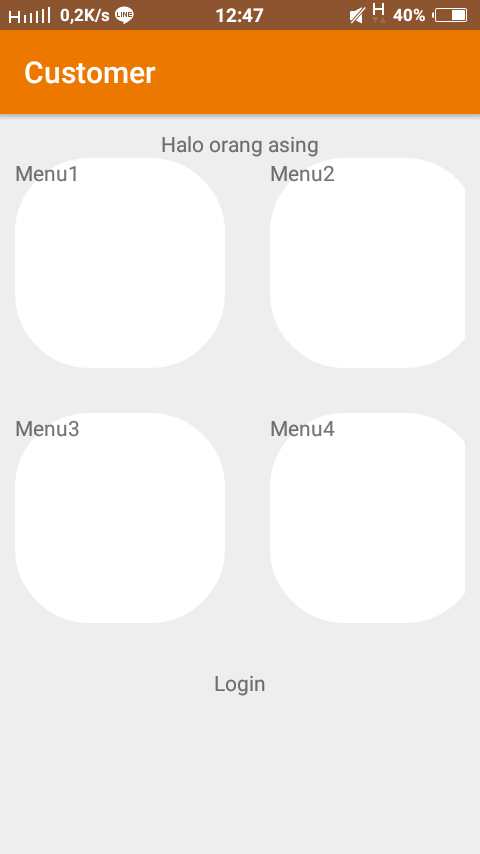
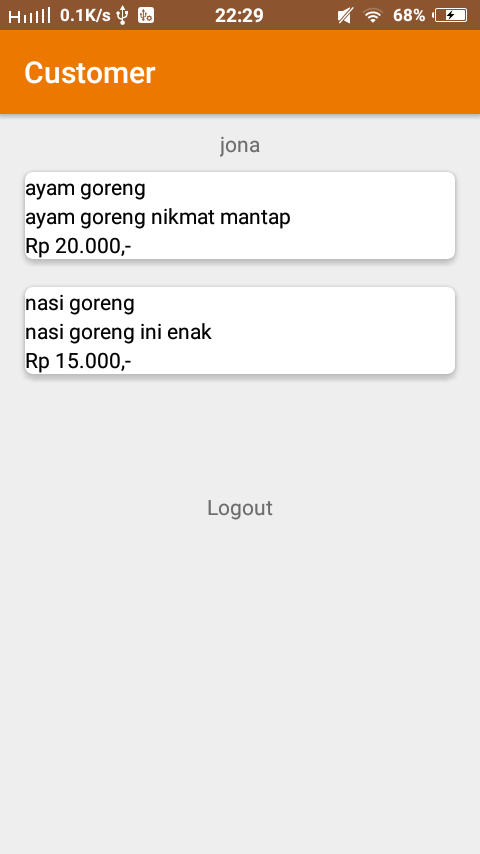
perbaiki recyclerview

diff --git a/app/src/main/java/com/jhonarendra/restoran/customer/RVMhs.java b/app/src/main/java/com/jhonarendra/restoran/customer/RVMhs.java
@@ -38,9 +38,9 @@ public class RVMhs extends RecyclerView.Adapter<RVMhs.ViewHolder> {
     @Override
     public void onBindViewHolder(ViewHolder holder, int position) {
         Result result = results.get(position);
-        holder.textViewNIMMhs.setText(result.getNIM());
-        holder.textViewNamaMhs.setText(result.getNamaMhs());
-        holder.textViewIDMhs.setText(result.getIDMhs());
+        holder.textViewNama.setText(result.getNama_hidangan());
+        holder.textViewDeskripsi.setText(result.getDeskripsi_hidangan());
+        holder.textViewHarga.setText(result.getHarga_hidangan());
     }
 
     @Override
@@ -50,9 +50,9 @@ public class RVMhs extends RecyclerView.Adapter<RVMhs.ViewHolder> {
 
     public class ViewHolder extends RecyclerView.ViewHolder {
 
-        @BindView(R.id.textNIMMhs) TextView textViewNIMMhs;
-        @BindView(R.id.textNamaMhs) TextView textViewNamaMhs;
-        @BindView(R.id.textIDMhs) TextView textViewIDMhs;
+        @BindView(R.id.tv_nama_hidangan) TextView textViewNama;
+        @BindView(R.id.tv_deskripsi_hidangan) TextView textViewDeskripsi;
+        @BindView(R.id.tv_harga_hidangan) TextView textViewHarga;
 
         public ViewHolder(View itemView) {
             super(itemView);

diff --git a/app/src/main/java/com/jhonarendra/restoran/customer/api/Result.java b/app/src/main/java/com/jhonarendra/restoran/customer/api/Result.java
@@ -5,20 +5,37 @@ package com.jhonarendra.restoran.customer.api;
  */
 
 public class Result {
-    String id_mhs;
-    String nama_mhs;
-    String nim_mhs;
+    String id_hidangan;
+    String nama_hidangan;
+    String deskripsi_hidangan;
+    String harga_hidangan;
 
-    public String getNIM() {
-        return nim_mhs;
+    public String getId_hidangan() {
+        return id_hidangan;
     }
 
-    public String getNamaMhs() {
-        return nama_mhs;
+    public String getNama_hidangan() {
+        return nama_hidangan;
     }
 
-    public String getIDMhs() {
-        return id_mhs;
+    public String getHarga_hidangan() {
+        return harga_hidangan;
     }
+
+    public String getDeskripsi_hidangan() {
+        return deskripsi_hidangan;
+    }
+
+    //    public String getNIM() {
+//        return nim_mhs;
+//    }
+//
+//    public String getNamaMhs() {
+//        return nama_mhs;
+//    }
+//
+//    public String getIDMhs() {
+//        return id_mhs;
+//    }
 
 }

diff --git a/app/src/main/java/com/jhonarendra/restoran/customer/LoginActivity.java b/app/src/main/java/com/jhonarendra/restoran/customer/LoginActivity.java
@@ -62,6 +62,7 @@ public class LoginActivity extends AppCompatActivity implements View.OnClickList
 
                     Intent intent=new Intent(getApplicationContext(),MainActivity.class);
                     startActivity(intent);
+                    finish();
                 } else {
                     Toast.makeText(LoginActivity.this, "Login Gagal", Toast.LENGTH_SHORT).show();
                 }
